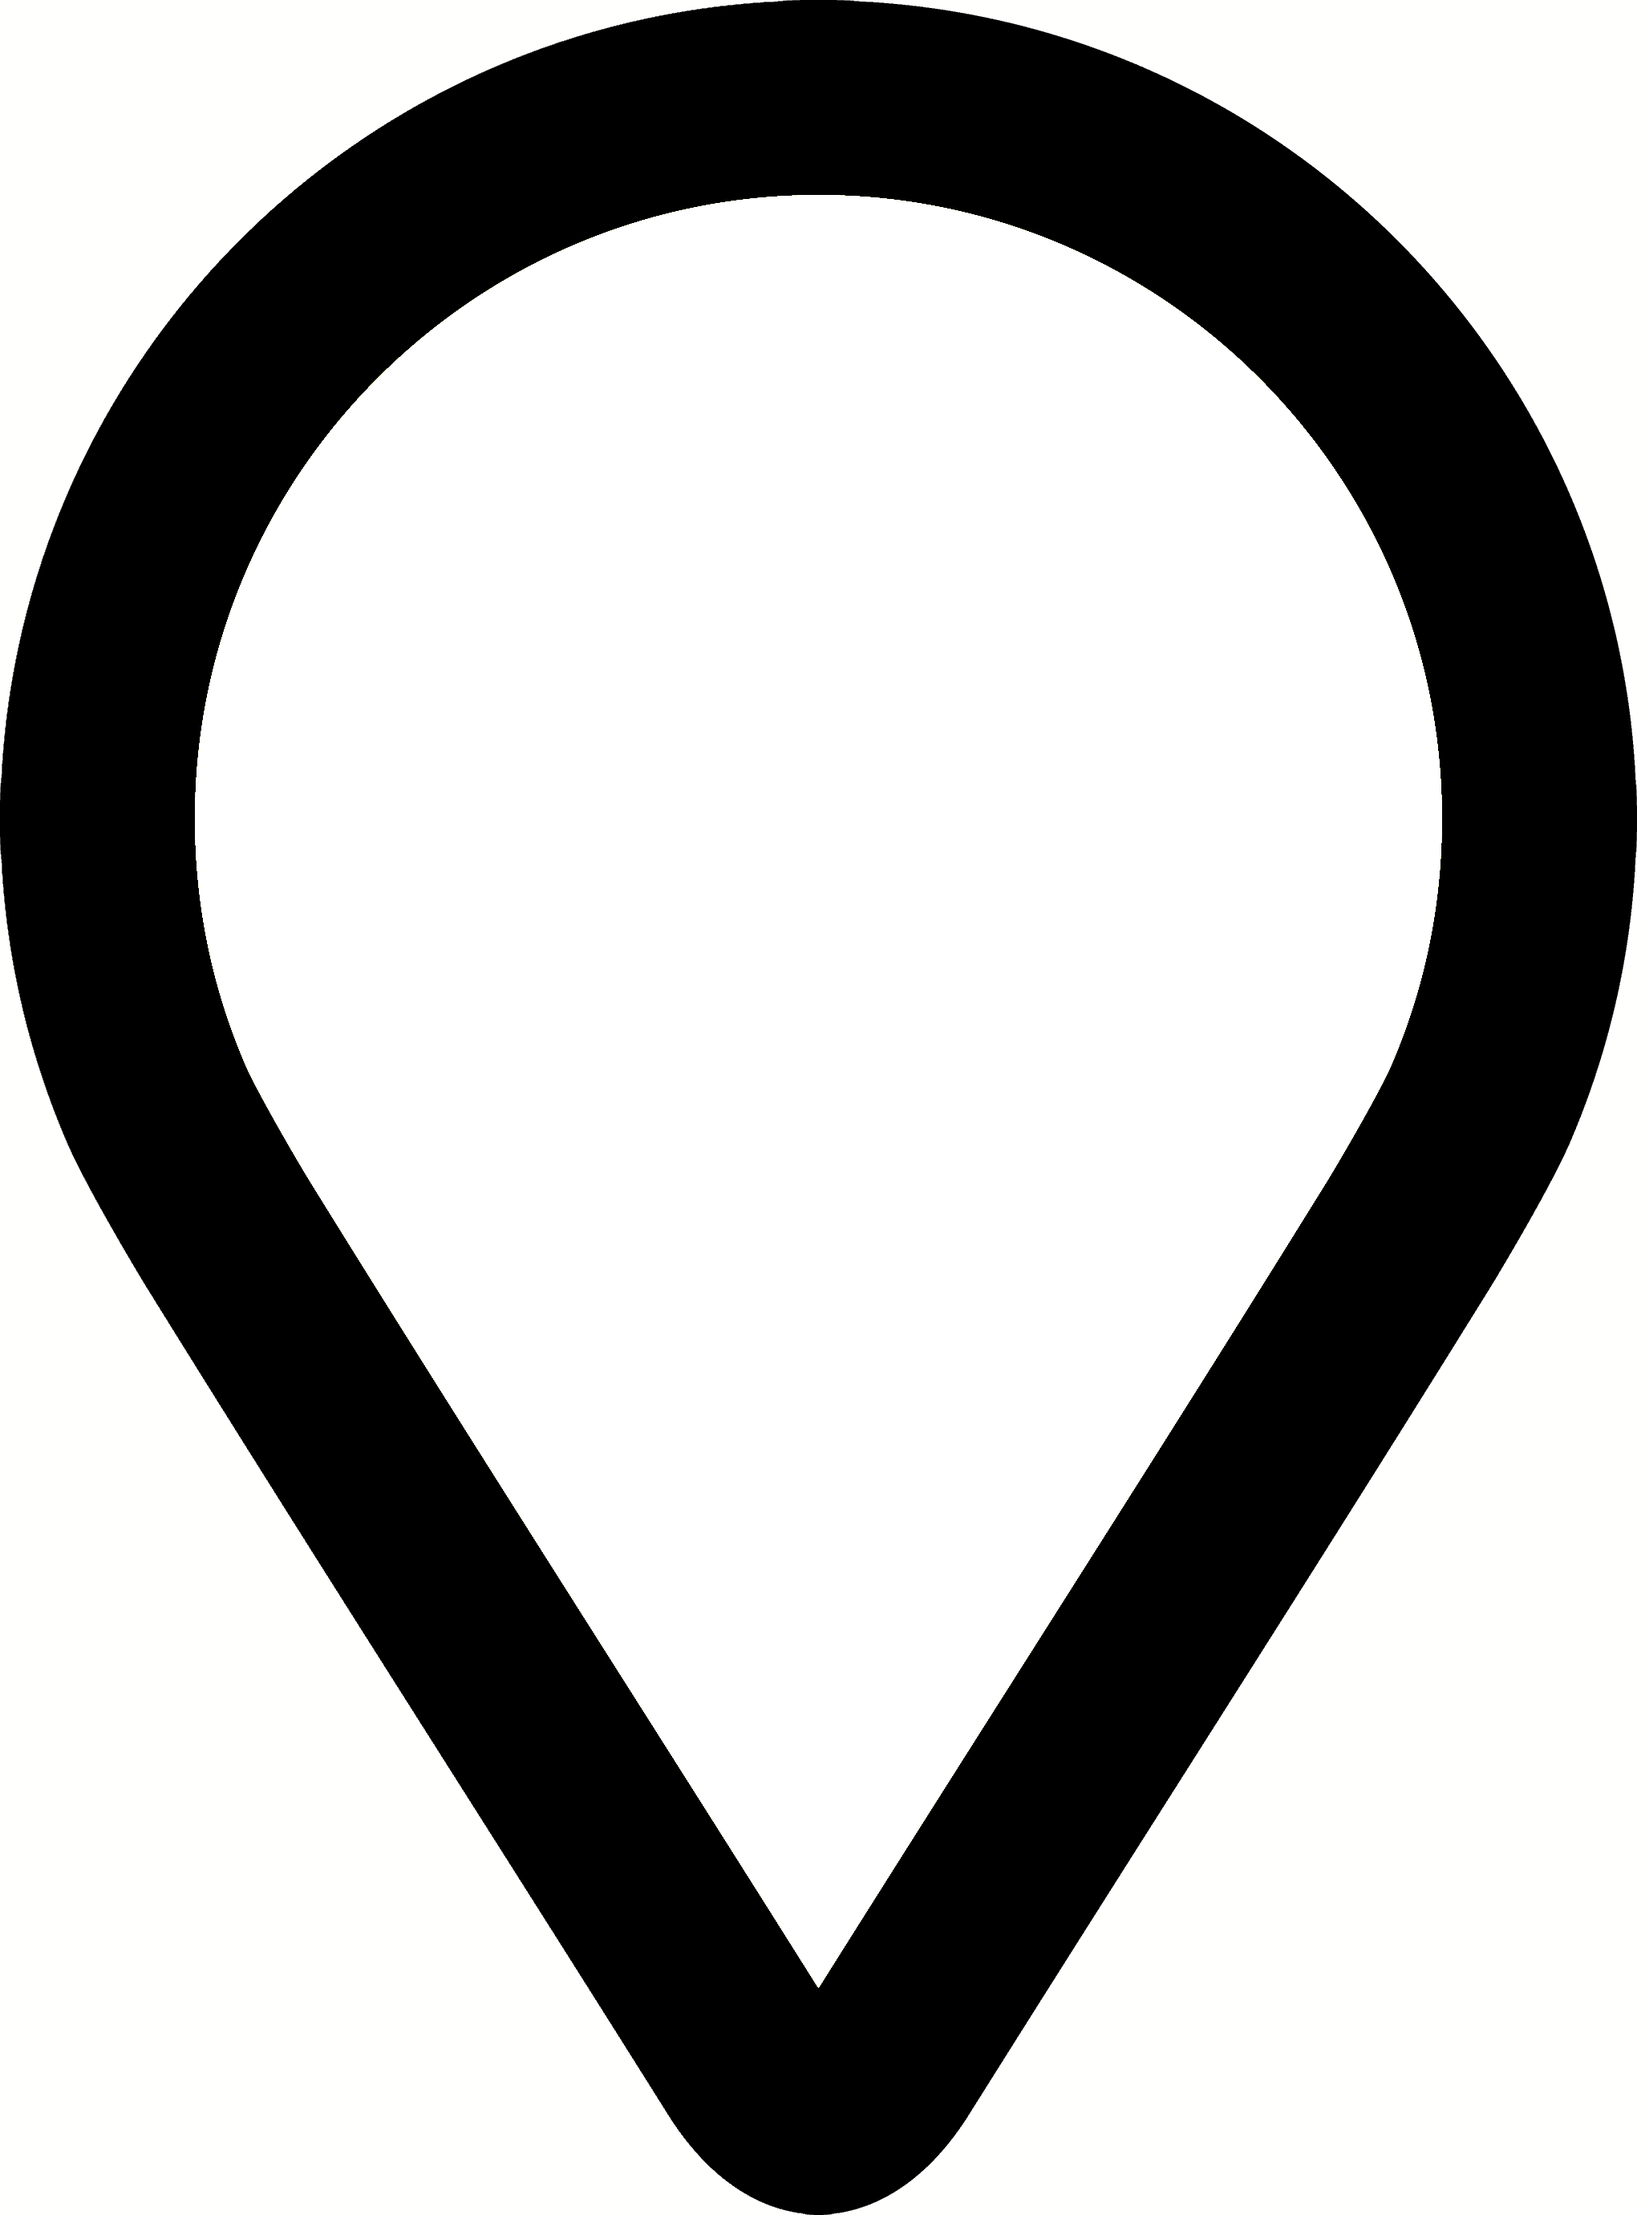
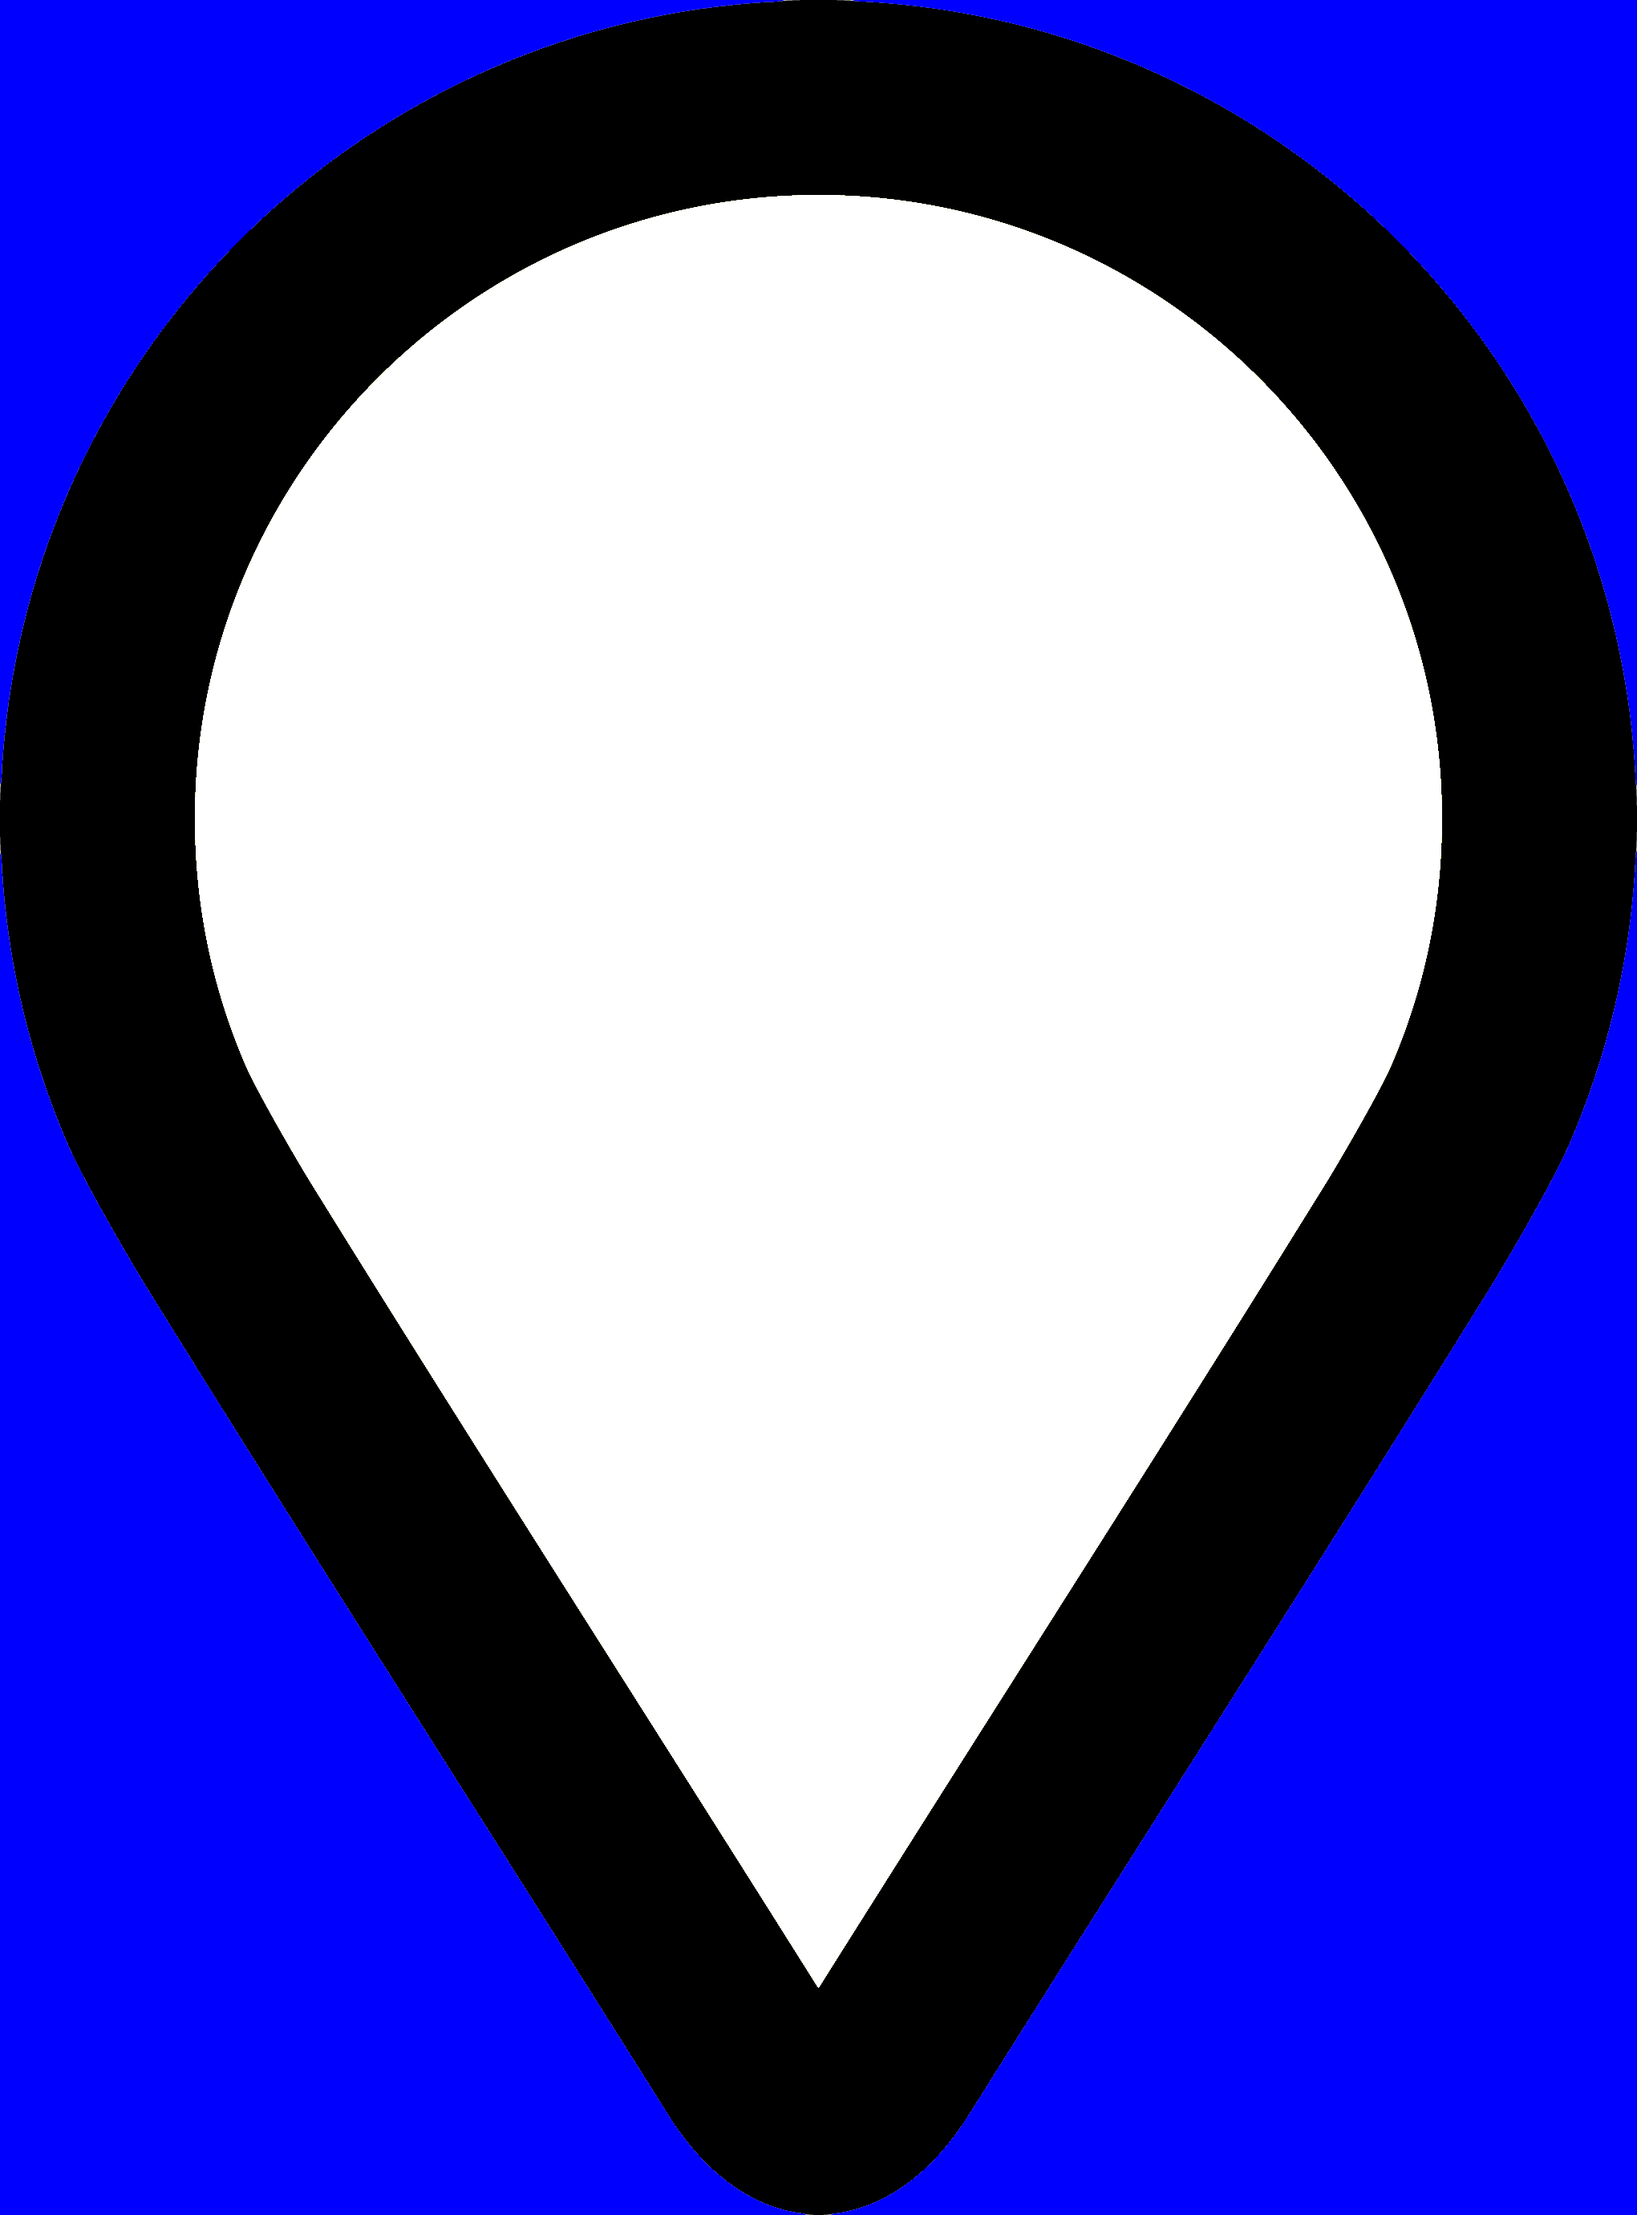
l

diff --git a/colorpng1.py b/colorpng1.py
@@ -1,0 +1,30 @@
+import cv2
+import numpy as np
+
+# 画像の読み込み
+img = cv2.imread('img.png')
+
+# 指定色 (白色)
+target_color = (255, 255, 255)
+
+# 変更後の色 
+change_color = (110, 150, 100)
+
+# 透過にしたい色 
+transparent_color = (0, 0, 255)
+
+# 画像がBGRA形式か確認し、違う場合は変換
+if img.shape[2] == 3:  # 画像がBGR (3チャンネル) なら
+    img = cv2.cvtColor(img, cv2.COLOR_BGR2BGRA)  # BGRA (4チャンネル) に変換
+
+# 指定色 (target_color) を変更後の色に変更
+img[np.all(img[:, :, :3] == target_color, axis=-1)] = [change_color[0], change_color[1], change_color[2], 255]
+
+# 透過したい色 (transparent_color) をアルファチャンネルを0に設定
+img[np.all(img[:, :, :3] == transparent_color, axis=-1)] = [transparent_color[0], transparent_color[1], transparent_color[2], 0]
+
+# ファイル名を変更後の色のRGB値で作成
+filename = f"{change_color[0]:03}_{change_color[1]:03}_{change_color[2]:03}.png"
+
+# 変更後の画像を新しいファイル名で保存
+cv2.imwrite(filename, img)
